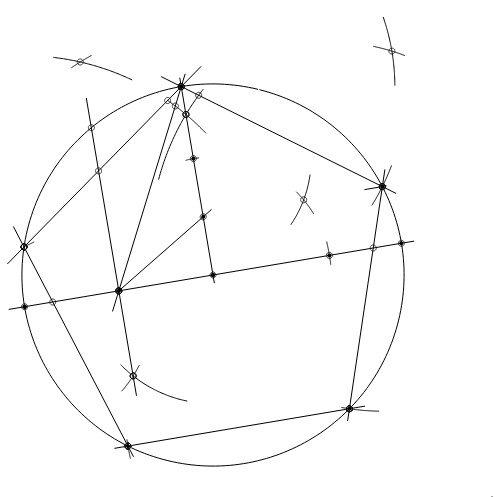
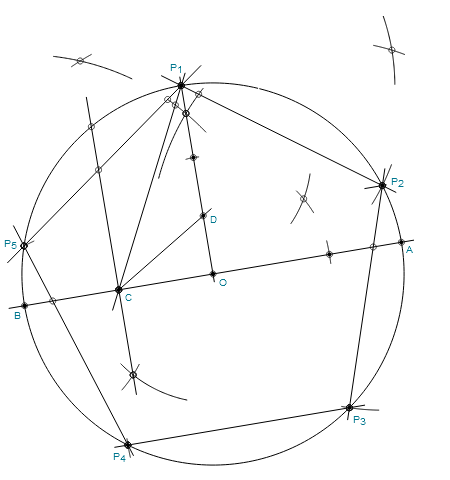
Add zooming and pentagon constructions

diff --git a/gauss17.js b/gauss17.js
@@ -47,7 +47,7 @@ function Point(x, y) {
 Point.prototype.Draw = function () {
 	context.beginPath();
 	context.strokeStyle = this.strokeStyle;
-	context.arc(this.x, this.y, 3, 0, 360, false);
+	context.arc(this.x, this.y, 3 / scale, 0, 360, false);
 	context.stroke();
 }
 
@@ -76,7 +76,7 @@ SelectionTool.prototype.onMouseReleased = function () {
 
 	if (pointOnShape.point != null) {
 		var d = pointOnShape.point.distanceTo(mousePoint);
-		if (d < 10)
+		if (d < 10 / scale)
 			selectedShape = pointOnShape.shape;
 	}
 }
@@ -155,9 +155,9 @@ CompassTool.prototype.onMousePressed = function () {
 	this.p1Selected = false;
 	this.p2Selected = false;
 
-	if (d1 < d2 && d1 < 10)
+	if (d1 < d2 && d1 < 10 / scale)
 		this.p1Selected = true;
-	else if (d2 < 10)
+	else if (d2 < 10 / scale)
 		this.p2Selected = true;
 
 	if (this.p1Selected || this.p2Selected)
@@ -200,23 +200,24 @@ CompassTool.prototype.Draw = function () {
 		context.stroke();
 	}
 
+	var l = 5.0 / scale;
 	context.beginPath();
 	context.strokeStyle = "#00AA00";
-	context.moveTo(this.p1.x - 5, this.p1.y - 5);
-	context.lineTo(this.p1.x + 5, this.p1.y + 5);
-	context.moveTo(this.p1.x - 5, this.p1.y + 5);
-	context.lineTo(this.p1.x + 5, this.p1.y - 5);
+	context.moveTo(this.p1.x - l, this.p1.y - l);
+	context.lineTo(this.p1.x + l, this.p1.y + l);
+	context.moveTo(this.p1.x - l, this.p1.y + l);
+	context.lineTo(this.p1.x + l, this.p1.y - l);
 	context.stroke();
 	context.beginPath();
-	context.arc(this.p1.x, this.p1.y, 3, 0, 2 * Math.PI, false);
+	context.arc(this.p1.x, this.p1.y, 3/scale, 0, 2 * Math.PI, false);
 	context.stroke();
 
 	context.beginPath();
 	context.strokeStyle = "#FF0000";
-	context.moveTo(this.p2.x - 5, this.p2.y - 5);
-	context.lineTo(this.p2.x + 5, this.p2.y + 5);
-	context.moveTo(this.p2.x - 5, this.p2.y + 5);
-	context.lineTo(this.p2.x + 5, this.p2.y - 5);
+	context.moveTo(this.p2.x - l, this.p2.y - l);
+	context.lineTo(this.p2.x + l, this.p2.y + l);
+	context.moveTo(this.p2.x - l, this.p2.y + l);
+	context.lineTo(this.p2.x + l, this.p2.y - l);
 	context.stroke();
 }
 
@@ -270,9 +271,9 @@ StraightEdgeTool.prototype.onMousePressed = function () {
 	this.p1Selected = false;
 	this.p2Selected = false;
 
-	if (d1 < d2 && d1 < 10)
+	if (d1 < d2 && d1 < 10 /scale)
 		this.p1Selected = true;
-	else if (d2 < 10)
+	else if (d2 < 10 / scale)
 		this.p2Selected = true;
 
 	if (this.p1Selected || this.p2Selected)
@@ -308,20 +309,21 @@ StraightEdgeTool.prototype.Draw = function () {
 		context.stroke();
 	}
 
+	var l = 5.0 / scale;
 	context.beginPath();
 	context.strokeStyle = "#00AA00";
-	context.moveTo(this.p1.x - 5, this.p1.y - 5);
-	context.lineTo(this.p1.x + 5, this.p1.y + 5);
-	context.moveTo(this.p1.x - 5, this.p1.y + 5);
-	context.lineTo(this.p1.x + 5, this.p1.y - 5);
+	context.moveTo(this.p1.x - l, this.p1.y - l);
+	context.lineTo(this.p1.x + l, this.p1.y + l);
+	context.moveTo(this.p1.x - l, this.p1.y + l);
+	context.lineTo(this.p1.x + l, this.p1.y - l);
 	context.stroke();
 
 	context.beginPath();
 	context.strokeStyle = "#FF0000";
-	context.moveTo(this.p2.x - 5, this.p2.y - 5);
-	context.lineTo(this.p2.x + 5, this.p2.y + 5);
-	context.moveTo(this.p2.x - 5, this.p2.y + 5);
-	context.lineTo(this.p2.x + 5, this.p2.y - 5);
+	context.moveTo(this.p2.x - l, this.p2.y - l);
+	context.lineTo(this.p2.x + l, this.p2.y + l);
+	context.moveTo(this.p2.x - l, this.p2.y + l);
+	context.lineTo(this.p2.x + l, this.p2.y - l);
 	context.stroke();
 }
 
@@ -487,7 +489,7 @@ Arc.prototype.Draw = function () {
 	if(snapToCircleCenters) {
 		context.beginPath();
 		context.fillStyle = this.strokeStyle;
-		context.arc(this.x, this.y, 2, 0, Math.PI * 2, false);
+		context.arc(this.x, this.y, 2/scale, 0, Math.PI * 2, false);
 		context.fill();
 	}
 }
@@ -763,7 +765,12 @@ function DrawScreen() {
 	// Forces redraw
 	canvas.width = canvas.width;
 
-	context.setTransform(1, 0, 0, -1, canvas.width / 2, canvas.height / 2);
+	//context.setTransform(scale, 0, 0, -scale, canvas.width/2, canvas.height/2);
+	context.setTransform(1, 0, 0, -1, 0, 0);
+	context.scale(scale, scale);
+	context.translate(-origin.x, -origin.y);
+	
+	context.lineWidth=1.0/scale;
 	for (i in arcs) {
 		if (arcs[i] == selectedShape)
 			arcs[i].strokeStyle = '#AA0000';
@@ -798,8 +805,8 @@ function DrawScreen() {
 
 function getMousePos(evt) {
 	var rect = canvas.getBoundingClientRect();
-	var x = evt.clientX - rect.left - canvas.width / 2;
-	var y = rect.top - evt.clientY + canvas.height / 2;
+	var x = (evt.clientX - rect.left)/scale + origin.x;
+	var y = (rect.top - evt.clientY)/scale + origin.y
 	return new Point(x, y);
 }
 
@@ -874,14 +881,14 @@ function getCurserPoint(p, evt) {
 	var closestIntersection = getClosestIntersection(p);
 	if (closestIntersection != null) {
 		var distance = p.distanceTo(closestIntersection.point);
-		if (distance < 5) {
+		if (distance < 5 / scale) {
 			usingIntersection = true;
 			closestPoint = closestIntersection.point;
 		}
 	}
 
 	if (closestPoint != null)
-		if (closestPoint.distanceTo(p) < 10)
+		if (closestPoint.distanceTo(p) < 10 / scale)
 			return closestPoint;
 
 	return p;
@@ -911,6 +918,28 @@ function onMouseUp(evt) {
 	DrawScreen();
 }
 
+function onMouseWheel(evt) {
+	var wheel = evt.deltaY / 10;  // Firefox
+	if(Math.abs(wheel) >= 1) {  // IE
+		wheel = wheel * 10 / 120;
+	}
+	var zoom = 1 + wheel/2;
+	
+	var dx = mousePoint.x - origin.x;
+	var dy = mousePoint.y - origin.y;
+	var px = dx * scale;   // pixels in x and y
+	var py = dy * scale;
+	
+	origin.x = mousePoint.x - px / (scale * zoom);
+	origin.y = mousePoint.y - py / (scale * zoom);
+	
+	scale *= zoom;
+	DrawScreen();
+	evt.preventDefault();   // Keep zoom wheel from scrolling page
+	evt.returnValue = false;
+
+}
+
 window.onload = function () {
 	mousePoint = new Point(0, 0);
 	curserPoint = new Point(0, 0);
@@ -921,15 +950,20 @@ window.onload = function () {
 	snapToLines = true;
 	snapToCircleCenters = true;
 	snapToIntersections = true;
+	scale = 1.0;
 	selectedShape = null;
 	selectedTool = compassTool;
 
 	canvas = document.getElementById("pendcanvas");
 	context = canvas.getContext('2d');
 
+	origin = new Point(-canvas.width/2, canvas.height/2);
+
+	
 	canvas.addEventListener('mousemove', onMouseMove);
 	canvas.addEventListener('mousedown', onMouseDown);
 	canvas.addEventListener('mouseup', onMouseUp);
+	canvas.addEventListener('wheel', onMouseWheel);
 
 	DrawScreen();
 }

diff --git a/constructions/pentagon.html b/constructions/pentagon.html
@@ -1,0 +1,43 @@
+<html>
+<head>
+<title>Construction of a Regular Pentagon</title>
+</head>
+<body>
+<h2>Construction of a Regular Pentagon with Compass and Straightedge</h2>
+<p>Below are two methods for constructing a regular pentagon with compass
+and straightedge. Method 1 is the more traditional method while
+method 2 uses a <a href="http://en.wikipedia.org/wiki/Carlyle_circle">Carlyle circle</a>
+technique for a more efficient construction.
+
+<h2><u>Method 1</u>:</h2>
+<p><img src="../images/pentagon.png"></p>
+<p><h3>Steps:</h3>
+<ol>
+<li>Draw circle with radius R centered at point O
+<li>Draw a diamater, intersecting the circle at points A and B
+<li>Create a perpendicular line to AB at point O, intersecting the circle at point P<sub>1</sub>.
+<li>Find the midpoint of line BO, call this point C.
+<li>Draw the line CP<sub>1</sub>. (optional - can help with next step)
+<li>Bisect angle P<sub>1</sub>CO, intersecting line OP<sub>1</sub> at point D.
+<li>Draw a line perpendicular to OP<sub>1</sub> at point D, intersecting the circle at point P<sub>2</sub>.
+<li>Center compass at point P<sub>2</sub> with length P<sub>1</sub>P<sub>2</sub> and mark point P<sub>3</sub> on the circle.
+<li>Continue, marking points P<sub>4</sub> and P<sub>5</sub>.
+<li>Points P<sub>1</sub>-P<sub>5</sub> form the pentagon.
+</ol>
+
+<h2><u>Method 2</u>:</h2>
+<p><img src="../images/pentagon2.png"></p>
+<p><h3>Steps:</h3>
+<ol>
+<li>Draw circle with radius R centered at point O
+<li>Draw a diamater, intersecting the circle at points A and B
+<li>Create a perpendicular line to AB at point O, intersecting the circle at point P<sub>1</sub>.
+<li>Find the midpoint of line BO, call this point C.
+<li>Center compass at point C with length CP<sub>1</sub>, draw arc to intersect line AB at point D (this is the Carlyle circle).
+<li>Center compass at point P<sub>1</sub> with length P<sub>1</sub>D and mark point P<sub>2</sub> on the circle.
+<li>Continue, marking points P<sub>3</sub>, P<sub>4</sub>, and P<sub>5</sub>.
+<li>Points P<sub>1</sub>-P<sub>5</sub> form the pentagon.
+</ol>
+
+</body>
+</html>

diff --git a/index.html b/index.html
@@ -142,7 +142,7 @@ used in the construction have been maintained:
 <li><a href="constructions/triangle.html">Triangle</a>
 <li><a href="constructions/inscribed_square.html">Inscribed Square</a>
 <li><a href="constructions/circumscribed_square.html">Circumscribed Square</a>
-<li><a href="images/pentagon.png">Pentagon</a>
+<li><a href="constructions/pentagon.html">Pentagon</a>
 <li><a href="constructions/hexagon.html">Hexagon</a>
 <li><a href="constructions/octagon.html">Octagon</a>
 <li><a href="images/17-gon.png">Seventeen-gon</a>
